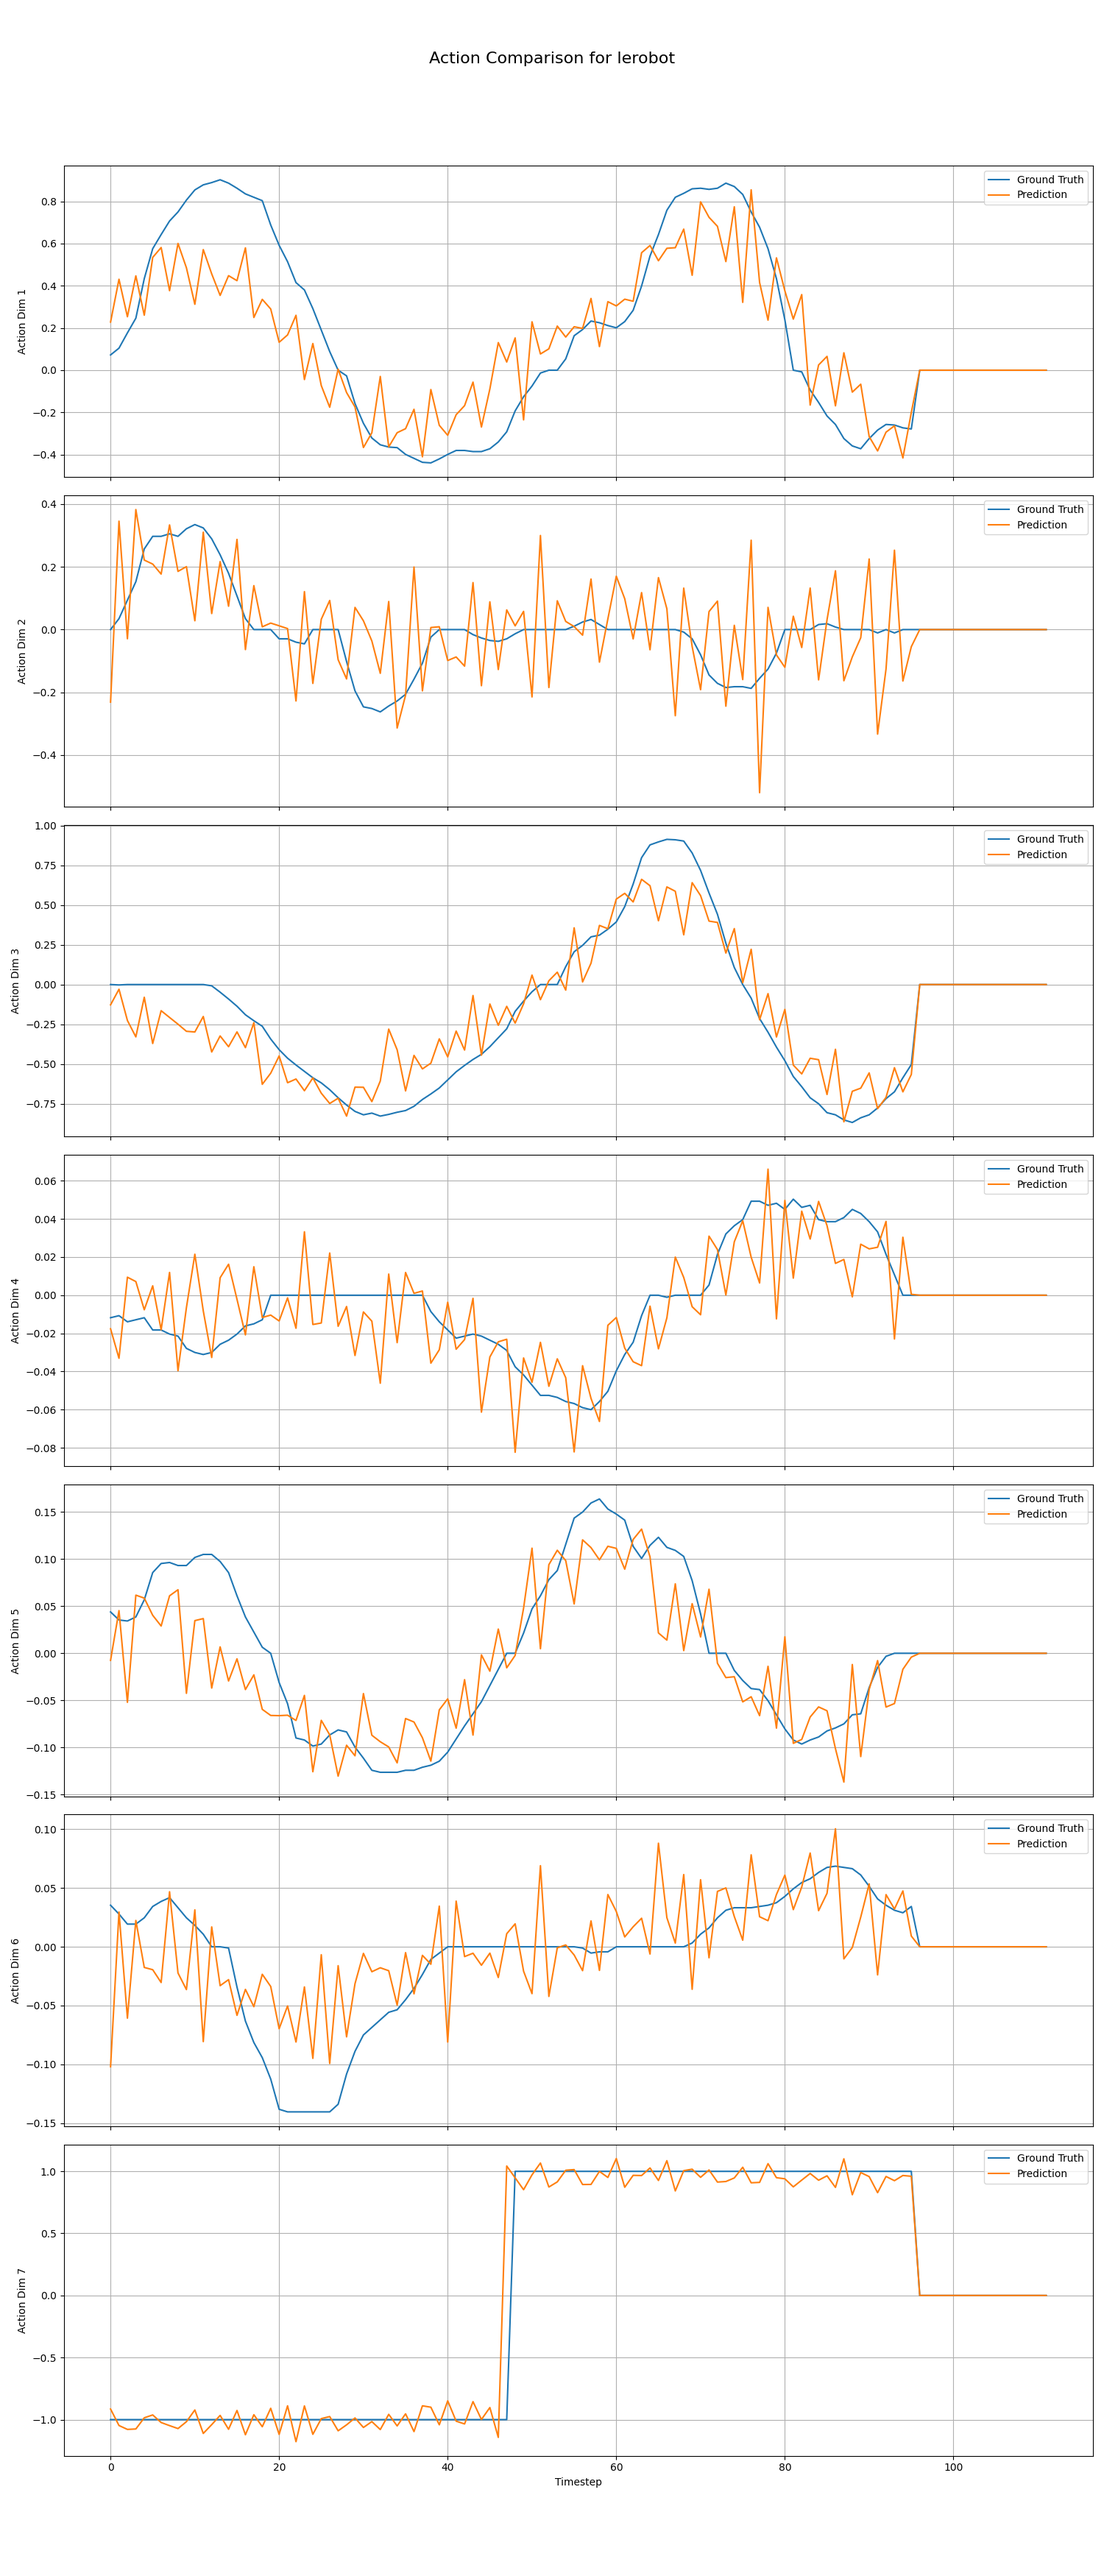
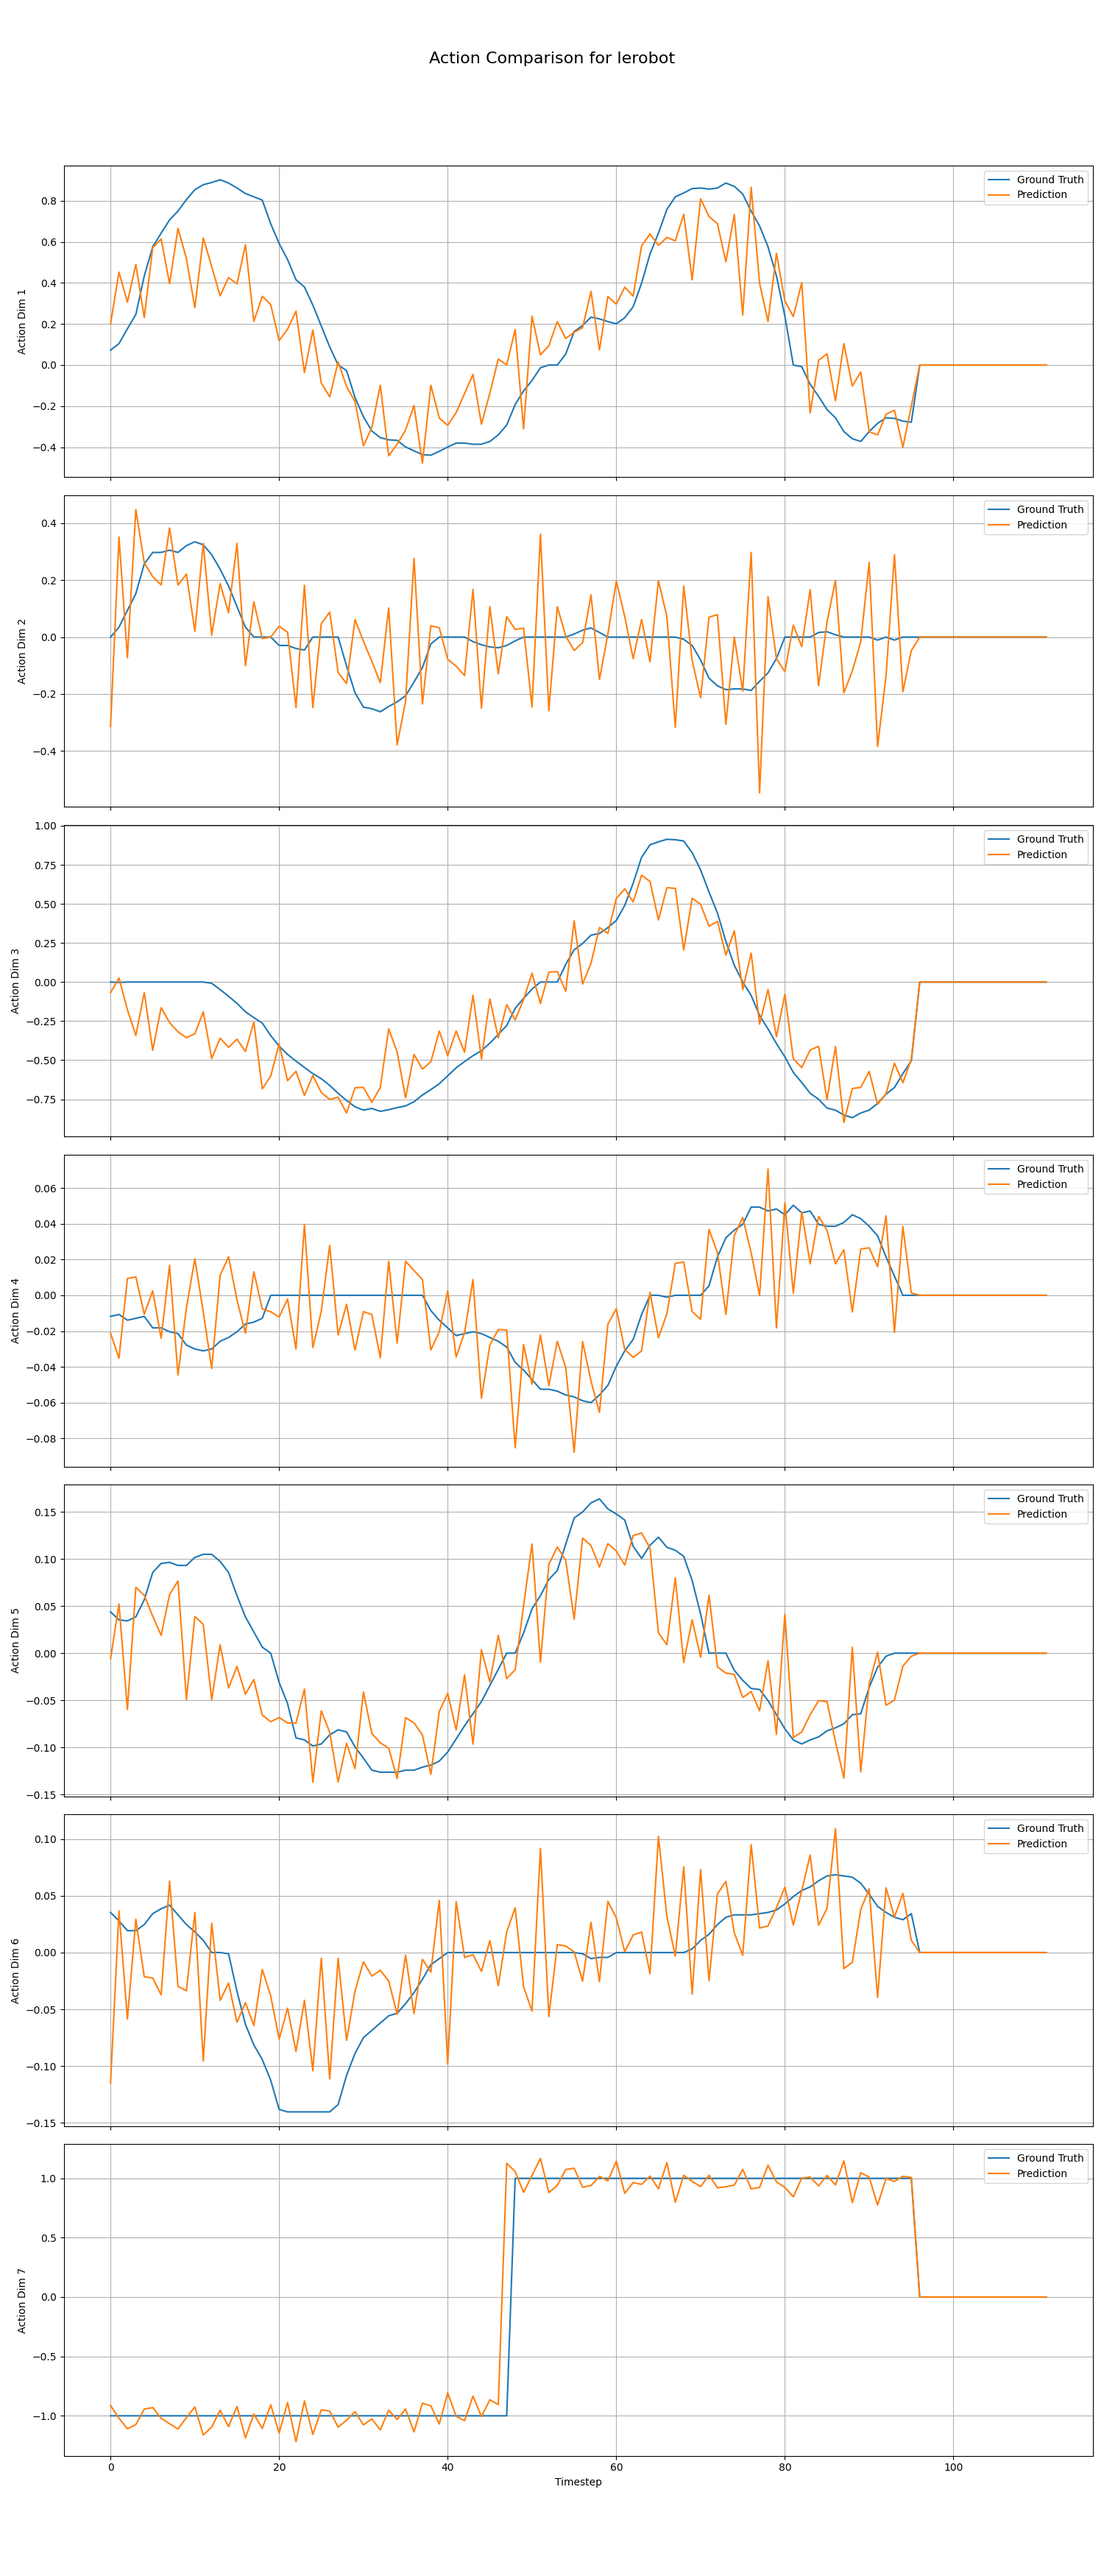
feat(rk3588): add diffusion timing instrumentation and update so101 config
- Add detailed timing breakdown for diffusion inference pipeline
- Change default num_inference_timesteps from 10 to 3
- Add tolerance_s parameter to lerobot dataset loading
- Update so101 config paths for rk3588 environment
- Add open-loop plot script and comparison images

diff --git a/wall_x/model/qwen2_5_based/modeling_qwen2_5_vl_act.py b/wall_x/model/qwen2_5_based/modeling_qwen2_5_vl_act.py
@@ -1,4 +1,5 @@
 import os
+import time
 import torch
 import numpy as np
 import glob
@@ -1716,7 +1717,7 @@ class Qwen2_5_VLMoEForAction(Qwen2_5_VLForConditionalGeneration):
         rope_deltas: Optional[torch.LongTensor] = None,
         cache_position: Optional[torch.LongTensor] = None,
         second_per_grid_ts: Optional[torch.Tensor] = None,
-        num_inference_timesteps: Optional[int] = 10,
+        num_inference_timesteps: Optional[int] = 3,
         dataset_names: Optional[str] = None,
         dof_mask: Optional[torch.FloatTensor] = None,
         agent_pos_mask: Optional[torch.FloatTensor] = None,
@@ -1797,8 +1798,11 @@ class Qwen2_5_VLMoEForAction(Qwen2_5_VLForConditionalGeneration):
         )
 
         # Process input embeddings with multi-modal data
+        _embed_timing = {}
         if inputs_embeds is None:
+            _t0 = time.perf_counter()
             inputs_embeds = self.model.embed_tokens(input_ids)
+            _embed_timing["embed_tokens"] = time.perf_counter() - _t0
 
             # Process image embeddings (skip when using FPGA — FPGA runs ViT internally)
             if pixel_values is not None and not self.skip_transformer_weights:
@@ -1854,12 +1858,14 @@ class Qwen2_5_VLMoEForAction(Qwen2_5_VLForConditionalGeneration):
                 agent_pos_mask = agent_pos_mask.to(inputs_embeds.device).to(
                     inputs_embeds.dtype
                 )
+                _t0 = time.perf_counter()
                 proprio_embed = self.action_preprocessor.proprioception_proj(
                     proprioception,
                     dataset_names,
                     agent_pos_mask,
                     use_history=proprioception.shape[1] > 1,
                 )
+                _embed_timing["proprio_proj"] = time.perf_counter() - _t0
                 proprioception_mask = (
                     input_ids == self.action_token_id_set["propri_token_id"]
                 )
@@ -2051,6 +2057,8 @@ class Qwen2_5_VLMoEForAction(Qwen2_5_VLForConditionalGeneration):
 
         # Handle diffusion-based action prediction
         if predict_mode == "diffusion":
+            timing = dict(_embed_timing)  # Include embed_tokens + proprio_proj timing
+
             # Initialize with random noise
             noisy_action = torch.randn(
                 size=(batch_size, pred_horizon, action_dim),
@@ -2092,10 +2100,13 @@ class Qwen2_5_VLMoEForAction(Qwen2_5_VLForConditionalGeneration):
 
                 # Prepare timestep for batch processing
                 timestep = timestep.unsqueeze(0).repeat(noisy_action.shape[0])
+
+                t0 = time.perf_counter()
                 action_embed = self.action_preprocessor.step(
                     timestep=timestep, noisy_action=noisy_action, dof_mask=dof_mask
                 )
                 action_embed = action_embed.reshape(-1, inputs_embeds.shape[-1])
+                timing["action_preprocessor.step"] = timing.get("action_preprocessor.step", 0) + (time.perf_counter() - t0)
 
                 # Create temporary copy of embeddings for thread safety
                 temp_inputs_embeds = inputs_embeds.clone()
@@ -2108,13 +2119,16 @@ class Qwen2_5_VLMoEForAction(Qwen2_5_VLForConditionalGeneration):
                         "but no fpga_client was provided. Transformer/ViT weights are not available."
                     )
                 elif fpga_client is not None:
+                    t0 = time.perf_counter()
                     action_hidden_states = fpga_client.run_transformer_on_fpga(
                         temp_inputs_embeds, input_ids, action_mask, fpga_iter_idx[0]
                     )
                     action_hidden_states = action_hidden_states.to(dtype=inputs_embeds.dtype)
                     fpga_iter_idx[0] += 1
+                    timing["fpga_inference"] = timing.get("fpga_inference", 0) + (time.perf_counter() - t0)
                 else:
                     # Forward pass through transformer
+                    t0 = time.perf_counter()
                     transformer_outputs = self.model(
                         input_ids=None,
                         attention_mask=attention_mask,
@@ -2133,8 +2147,11 @@ class Qwen2_5_VLMoEForAction(Qwen2_5_VLForConditionalGeneration):
                     hidden_states = transformer_outputs.last_hidden_state
                     action_mask = input_ids == self.action_token_id_set["action_token_id"]
                     action_hidden_states = hidden_states[action_mask]
+                    timing["transformer_forward"] = timing.get("transformer_forward", 0) + (time.perf_counter() - t0)
 
+                t0 = time.perf_counter()
                 pred = self.action_preprocessor.action_proj_back(action_hidden_states)
+                timing["action_proj_back"] = timing.get("action_proj_back", 0) + (time.perf_counter() - t0)
                 return pred.reshape(batch_size, pred_horizon, action_dim)
 
             # Perform ODE integration for diffusion sampling
@@ -2145,16 +2162,28 @@ class Qwen2_5_VLMoEForAction(Qwen2_5_VLForConditionalGeneration):
                 device=inputs_embeds.device,
                 dtype=inputs_embeds.dtype,
             )
+            t_ode = time.perf_counter()
             action_trajectory = odeint(step, noisy_action, times, method="euler")
+            timing["odeint_total"] = time.perf_counter() - t_ode
 
             # Extract final predicted action and unnormalize
             predict_action = action_trajectory[-1]
+            t0 = time.perf_counter()
             predict_action = (
                 self.action_preprocessor.normalizer_action.unnormalize_data(
                     predict_action, dataset_names
                 )
             )
+            timing["unnormalize"] = time.perf_counter() - t0
             output["predict_action"] = predict_action
+
+            # Print timing breakdown
+            total_measured = sum(timing.values())
+            print(f"\n--- Diffusion Timing Breakdown (ms) ---")
+            for name, elapsed in timing.items():
+                print(f"  {name}: {elapsed * 1000:.1f} ms")
+            print(f"  TOTAL (measured): {total_measured * 1000:.1f} ms")
+            print(f"----------------------------------------\n")
 
             # Process ground truth actions if available
             if action_chunk is not None:

diff --git a/workspace/so101/draw_openloop_plot.py b/workspace/so101/draw_openloop_plot.py
@@ -1,0 +1,131 @@
+import os, sys
+sys.path.insert(0, os.path.join(os.path.dirname(os.path.abspath(__file__)), "..", "..", "packages"))
+sys.path.insert(0, os.path.join(os.path.dirname(os.path.abspath(__file__)), "..", ".."))
+from fpga_vla_client import FPGATransformerClient
+import yaml
+import torch
+import argparse
+from tqdm import tqdm
+import matplotlib.pyplot as plt
+from wall_x.model.qwen2_5_based.modeling_qwen2_5_vl_act import Qwen2_5_VLMoEForAction
+from wall_x.data.load_lerobot_dataset import load_test_dataset, get_data_configs
+
+
+def load_config(config_path):
+    """Load configuration from YAML file."""
+    with open(config_path, "r") as f:
+        config = yaml.load(f, Loader=yaml.FullLoader)
+
+    config["data"]["model_type"] = config.get("model_type")
+
+    return config
+
+
+if __name__ == "__main__":
+    parser = argparse.ArgumentParser()
+    parser.add_argument("--pred_horizon", type=int, default=32)
+    parser.add_argument("--origin_action_dim", type=int, default=6)
+    parser.add_argument("--fpga-host", type=str, default="192.168.50.40")
+    parser.add_argument("--fpga-port", type=int, default=8001)
+    args = parser.parse_args()
+
+    origin_action_dim = args.origin_action_dim
+    pred_horizon = args.pred_horizon
+
+    # get train config
+    model_path = "/root/Models/so101_realbot_39"
+    action_tokenizer_path = "/path/to/action/tokenizer"
+    save_dir = "/userdata/root/Workspace/wall-x/workspace/so101"
+    path = "/userdata/root/Workspace/wall-x/workspace/so101/config_qact.yml"
+    config = load_config(path)
+
+    # load model with customized robot config
+    model = Qwen2_5_VLMoEForAction.from_pretrained(
+        model_path, train_config=config, action_tokenizer_path=action_tokenizer_path, skip_transformer_weights=True
+    )
+    model.eval()
+    model = model.to("cpu")
+    model = model.float()
+
+    # connect to FPGA
+    print("Connecting to FPGA...")
+    fpga_client = FPGATransformerClient(host=args.fpga_host, port=args.fpga_port)
+    fpga_client.connect()
+
+    # get test dataloader
+    dataload_config = get_data_configs(config["data"])
+    lerobot_config = dataload_config.get("lerobot_config", {})
+    dataset = load_test_dataset(config, lerobot_config, seed=42)
+    dataloader = dataset.get_dataloader()
+
+    total_frames = len(dataloader)
+
+    predict_mode = "fast" if config.get("use_fast_tokenizer", False) else "diffusion"
+    action_dim = 20 if predict_mode == "diffusion" else origin_action_dim
+    gt_traj = torch.zeros((total_frames, origin_action_dim))
+    pred_traj = torch.zeros((total_frames, origin_action_dim))
+
+    # use tqdm to show the progress
+    for idx, batch in tqdm(
+        enumerate(dataloader), total=total_frames, desc="predicting"
+    ):
+        if idx % pred_horizon == 0 and idx + pred_horizon < total_frames:
+            batch = batch.to("cpu")
+
+            # cache image for FPGA mode1
+            pixel_values = batch.get("pixel_values")
+            if pixel_values is not None:
+                fpga_client.set_cached_image(pixel_values)
+
+            with torch.no_grad():
+                outputs = model(
+                    **batch,
+                    action_dim=action_dim,
+                    pred_horizon=pred_horizon,
+                    mode="predict",
+                    predict_mode=predict_mode,
+                    fpga_client=fpga_client,
+                )
+                pred_traj[idx : idx + pred_horizon] = (
+                    outputs["predict_action"][:, :, :origin_action_dim]
+                    .detach()
+                    .cpu()
+                    .squeeze(0)
+                )
+
+            # Denormalize ground truth actions
+            gt_action_chunk = batch["action_chunk"][:, :, :origin_action_dim]
+            dof_mask = batch["dof_mask"].to(gt_action_chunk.dtype)
+            denormalized_gt = (
+                model.action_preprocessor.normalizer_action.unnormalize_data(
+                    gt_action_chunk,
+                    [lerobot_config.get("repo_id", "physical-intelligence/libero")],
+                    dof_mask,
+                ).squeeze(0)
+            )
+            gt_traj[idx : idx + pred_horizon] = denormalized_gt.detach().cpu()
+
+    gt_traj_np = gt_traj.numpy()
+    pred_traj_np = pred_traj.numpy()
+
+    timesteps = gt_traj.shape[0]
+
+    fig, axs = plt.subplots(
+        origin_action_dim, 1, figsize=(15, 5 * origin_action_dim), sharex=True
+    )
+    fig.suptitle("Action Comparison for lerobot", fontsize=16)
+
+    for i in range(origin_action_dim):
+        axs[i].plot(range(timesteps), gt_traj_np[:, i], label="Ground Truth")
+        axs[i].plot(range(timesteps), pred_traj_np[:, i], label="Prediction")
+        axs[i].set_ylabel(f"Action Dim {i+1}")
+        axs[i].legend()
+        axs[i].grid(True)
+
+    axs[-1].set_xlabel("Timestep")
+    plt.tight_layout(rect=[0, 0.03, 1, 0.95])
+    os.makedirs(save_dir, exist_ok=True)
+    save_path = os.path.join(save_dir, "lerobot_comparison.png")
+    plt.savefig(save_path)
+    print(f"Saved plot to {save_path}")
+    plt.close()

diff --git a/wall_x/data/load_lerobot_dataset.py b/wall_x/data/load_lerobot_dataset.py
@@ -488,6 +488,7 @@ def load_lerobot_data(
         episodes=train_episodes,
         delta_timestamps=delta_timestamps,
         video_backend="pyav",
+        tolerance_s=lerobot_config.get("tolerance_s", 1e-4),
     )
 
     if rank == 0:
@@ -661,6 +662,7 @@ def load_test_dataset(
         delta_timestamps=delta_timestamps,
         video_backend="pyav",
         root=root,
+        tolerance_s=lerobot_config.get("tolerance_s", 1e-4),
     )
 
     print(f"Selected episodes: {dataset.episodes}")
